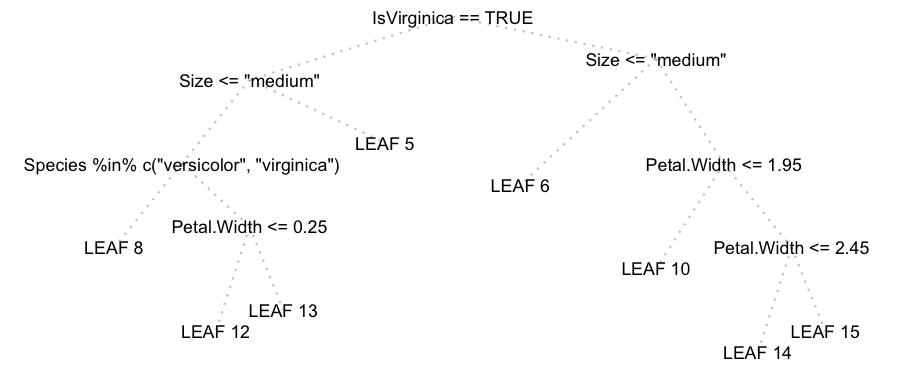
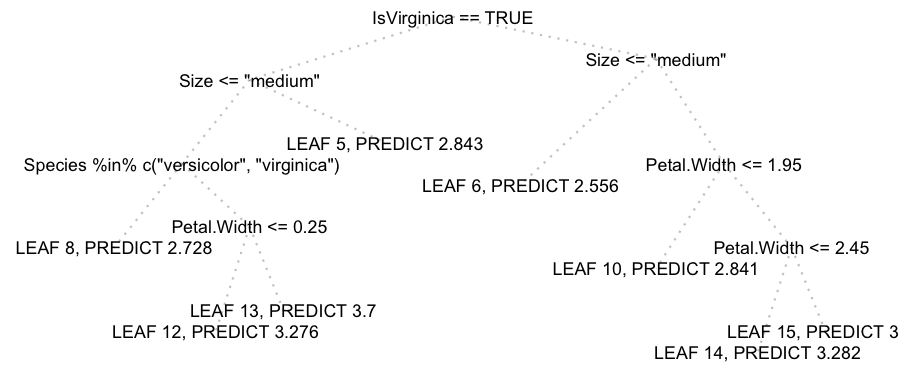
include Prediction column in dtree coming from randomForest model

diff --git a/README.md b/README.md
@@ -142,7 +142,7 @@ dtree[, c("NodeId", "ParentNodeId", "LeftChildNodeId", "RightChildNodeId", "Spli
 
 
 # make a pretty label column and plot it
-dtree[, Label := ifelse(is.na(LeftChildNodeId), paste("LEAF", NodeId), Split)]
+dtree[, Label := ifelse(is.na(LeftChildNodeId), paste0("LEAF ", NodeId, ", PREDICT ",  round(Prediction, 3)), Split)]
 plot_btree(dtree, labelCol = "Label")
 ```
 ![dtree](images/dtree1.png)
